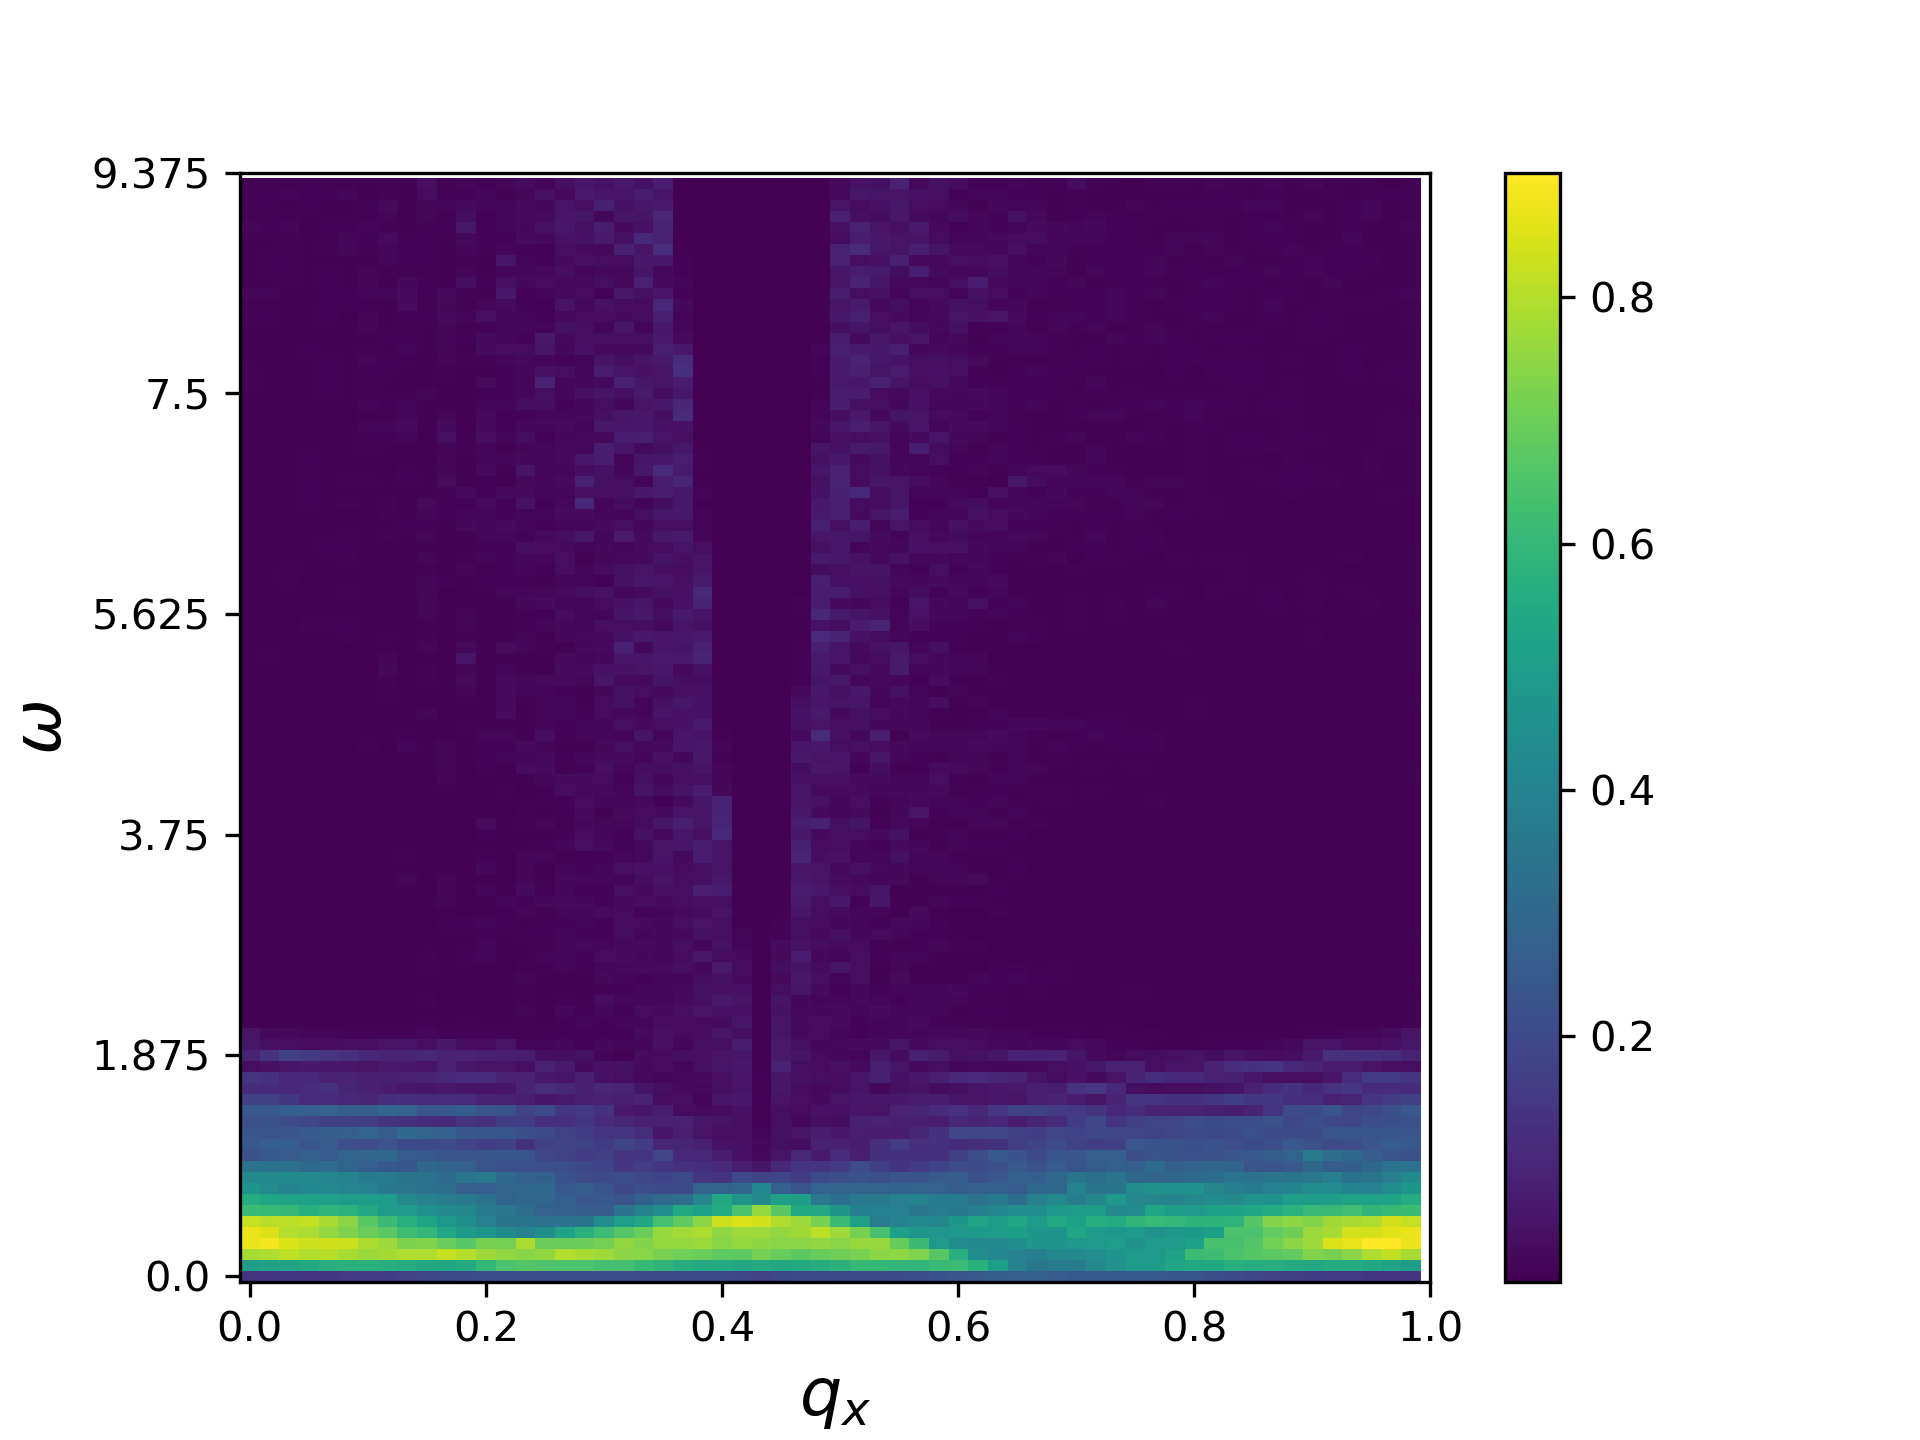
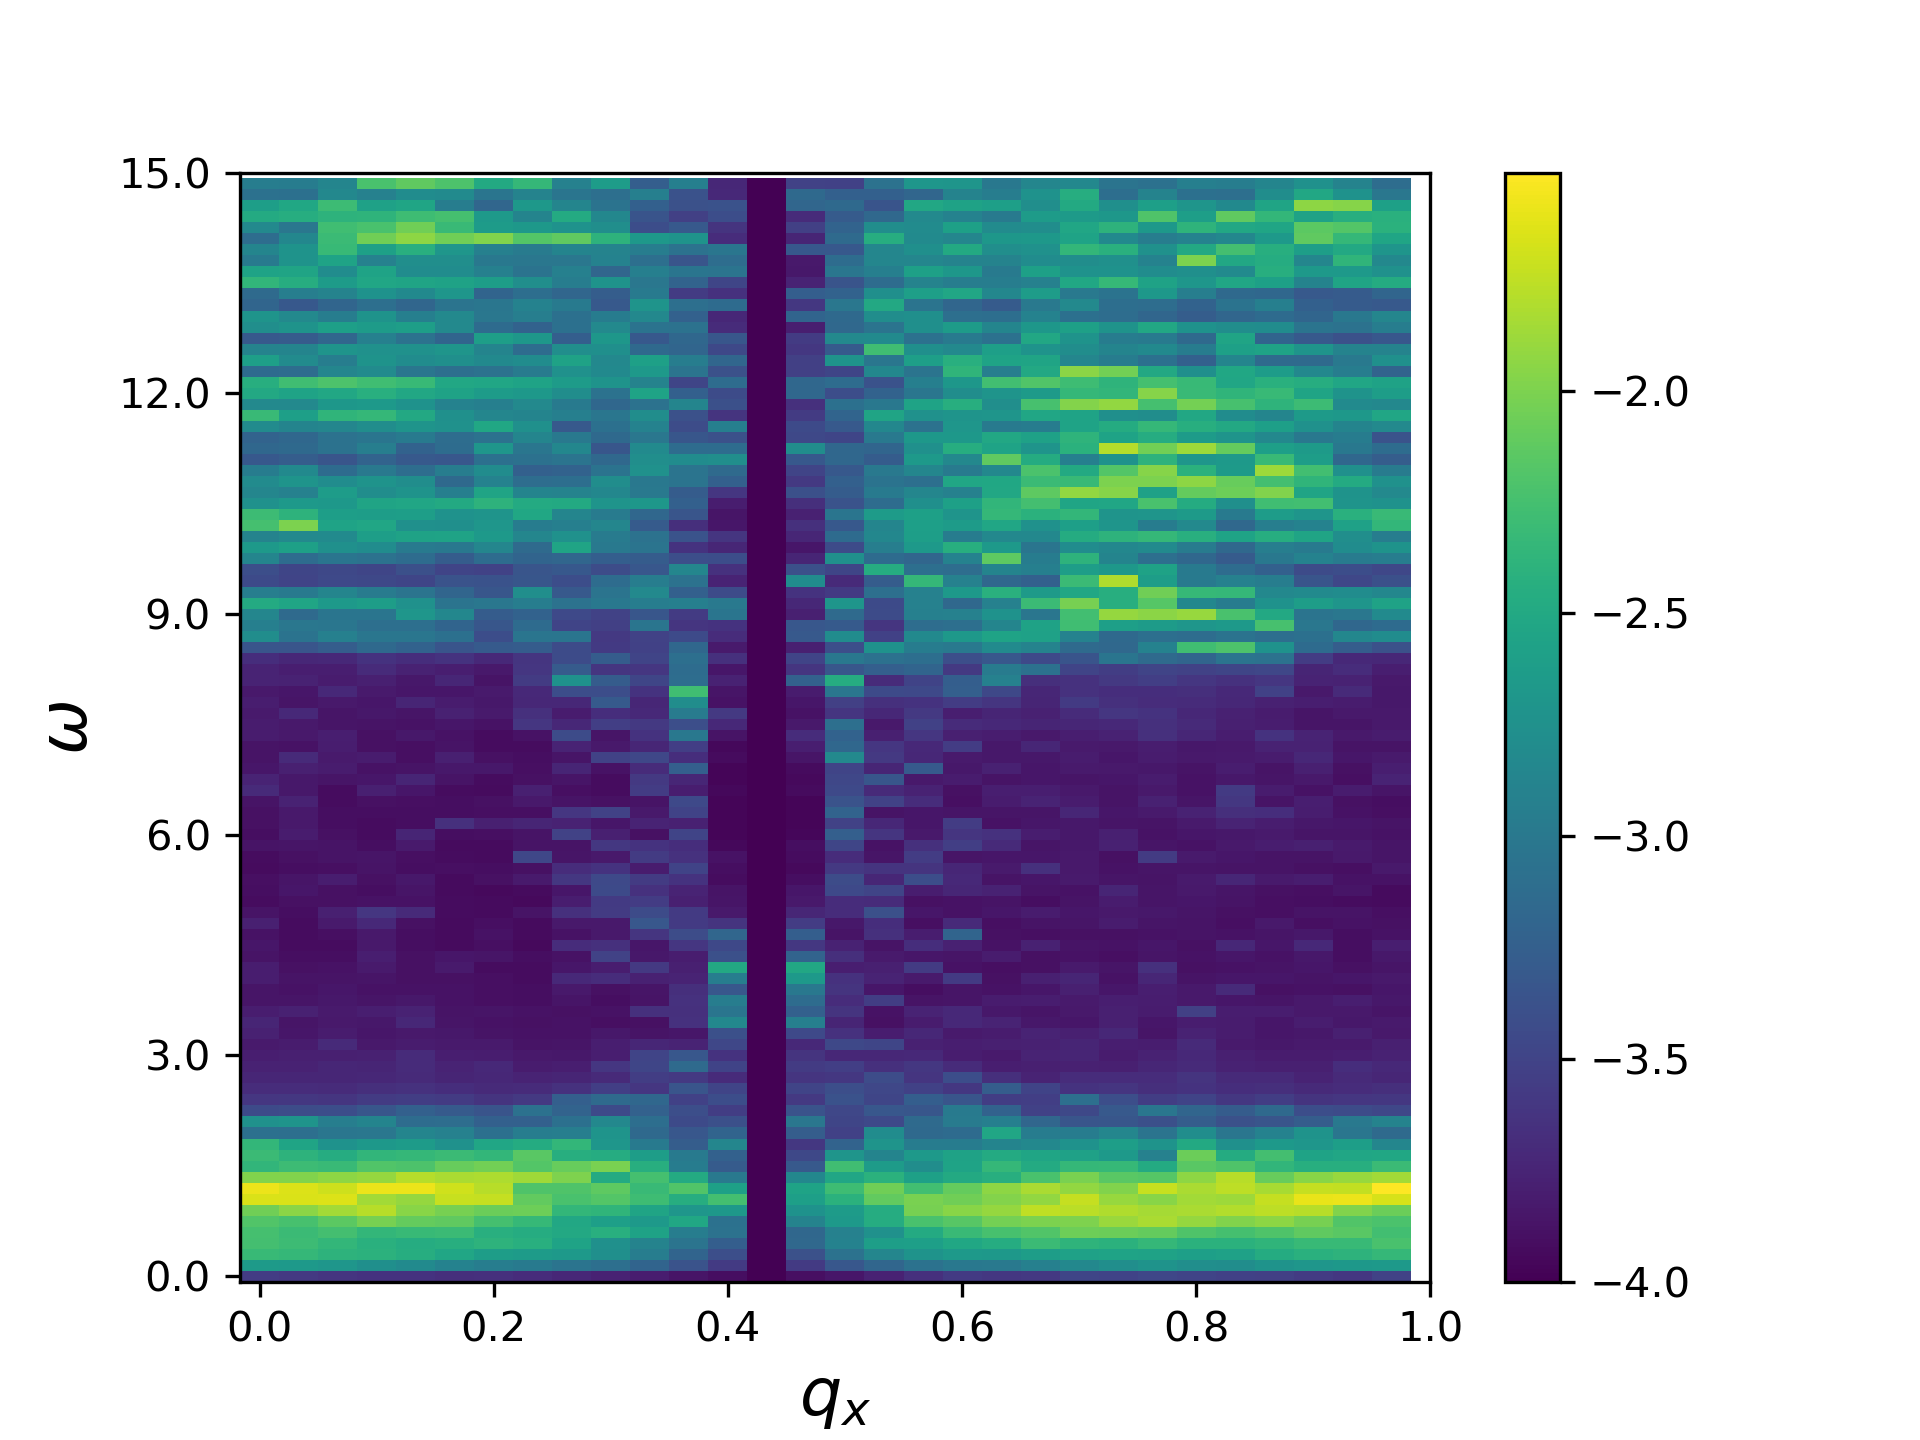
full optimization of the form factors using tensordot to precompute overlap matrix

diff --git a/bubble_valleyband_momentum_cut_form_fact.py b/bubble_valleyband_momentum_cut_form_fact.py
@@ -114,10 +114,10 @@ def eigsystem(kx, ky, xi, nbands, n1, n2):
     qx_dif = kx+GM1[0]*n1+GM2[0]*n2-xi*Mpoint[0]
     qy_dif = ky+GM1[1]*n1+GM2[1]*n2-xi*Mpoint[1]
     vals = np.sqrt(qx_dif**2+qy_dif**2)
-    ind_to_sum = np.where(vals <= 4*GM) #Finding the indices where the difference of  q lies inside threshold
-    n1_val = n1[ind_to_sum]
-    n2_val = n2[ind_to_sum]
-    N = np.shape(ind_to_sum)[1]
+    ind_to_sum = np.where(vals <= 4*GM) #Finding the i,j indices where the difference of  q lies inside threshold, this is a 2 x Nindices array
+    n1_val = n1[ind_to_sum] # evaluating the indices above, since n1 is a 2d array the result of n1_val is a 1d array of size Nindices
+    n2_val = n2[ind_to_sum] #
+    N = np.shape(ind_to_sum)[1] ##number of indices for which the condition above is satisfied
 
     qx = kx+GM1[0]*n1_val+GM2[0]*n2_val
     qy = ky+GM1[1]*n1_val+GM2[1]*n2_val
@@ -156,10 +156,19 @@ def eigsystem(kx, ky, xi, nbands, n1, n2):
     Hxi=np.bmat([[H1, (U.conj()).T], [U, H2]]) #Full matrix
     #a= np.linalg.eigvalsh(Hxi) - en_shift
     (Eigvals,Eigvect)= np.linalg.eigh(Hxi)  #returns sorted eigenvalues
-    psi=np.zeros([np.shape(n1)[0],np.shape(n1)[1],nbands ,4], dtype=np.cdouble) #4 corresponds to layer and sublattice indices and shape n1 corresponds to the Q processes taken 
-    psi[ind_to_sum]=np.reshape(np.array(Eigvect[:,2*N-int(nbands/2):2*N+int(nbands/2)]) , [N, nbands,4 ])
+    #######HANDLING WITH RESHAPE
+    # psi=np.zeros([np.shape(n1)[0],np.shape(n1)[1],nbands ,4], dtype=np.cdouble) #4 corresponds to layer and sublattice indices and shape n1 corresponds to the Q processes taken 
+    # psi[ind_to_sum]=np.reshape(np.array(Eigvect[:,2*N-int(nbands/2):2*N+int(nbands/2)]) , [N, nbands,4 ])
+    #MANUAL ARRAY CASTING
     
-    return Eigvals[2*N-int(nbands/2):2*N+int(nbands/2)]-en0, psi
+    psi_p=np.zeros([np.shape(n1)[0],np.shape(n1)[1],4], dtype=np.cdouble)
+    psi=np.zeros([nbands,np.shape(n1)[0]*np.shape(n1)[1]*4], dtype=np.cdouble)
+
+    for nband in range(nbands):
+        psi_p[ind_to_sum] = np.reshape(np.array(Eigvect[:,2*N-int(nbands/2)+nband]) , [N, 4 ])
+        psi[nband,:]=psi_p.flatten()
+
+    return Eigvals[2*N-int(nbands/2):2*N+int(nbands/2)]-en0,psi
     #  return Eigvals[2*N-int(nbands/2):2*N+int(nbands/2)]-en0, Eigvect[:,2*N-int(nbands/2):2*N+int(nbands/2)]
 
 
@@ -183,6 +192,8 @@ n_2=np.arange(0,Nsamp,1)
 k1=np.array([1,0])
 k2=np.array([1/2,np.sqrt(3)/2])
 n_1p,n_2p=np.meshgrid(n_1,n_2)
+n_1p_flat=n_1p.flatten()
+n_2p_flat=n_2p.flatten()
 G1=k1*Nsamp
 G2=k2*Nsamp
 
@@ -192,6 +203,8 @@ Ene_valley_plus_a=np.empty((0))
 Ene_valley_min_a=np.empty((0))
 psi_plus_a=[]
 psi_min_a=[]
+
+print("starting dispersion ..........")
 for l in range(Nsamp*Nsamp):
     i=int(l%Nsamp)
     j=int((l-i)/Nsamp)
@@ -199,44 +212,62 @@ for l in range(Nsamp*Nsamp):
     
     E1,wave1=eigsystem(XsLatt[i,j],YsLatt[i,j], 1, nbands, n1, n2)
     E2,wave2=eigsystem(XsLatt[i,j],YsLatt[i,j], -1, nbands, n1, n2)
-    #print(E)
+
     Ene_valley_plus_a=np.append(Ene_valley_plus_a,E1)
     Ene_valley_min_a=np.append(Ene_valley_min_a,E2)
+
     psi_plus_a.append(wave1)
     psi_min_a.append(wave2)
 
-psi_plus_r=np.reshape(np.array(psi_plus_a),[Nsamp,Nsamp,np.shape(n1)[0],np.shape(n1)[1],nbands,4])
+##relevant wavefunctions and energies for the + valley
 psi_plus=np.array(psi_plus_a)
+psi_plus_r=np.reshape(np.array(psi_plus_a),[Nsamp,Nsamp,nbands,np.shape(n1)[0]*np.shape(n1)[1]*4])
+psi_plus_conj=np.conj(np.array(psi_plus_a))
 Ene_valley_plus= np.reshape(Ene_valley_plus_a,[Nsamp,Nsamp,nbands])
-psi_min_r=np.reshape(np.array(psi_min_a),[Nsamp,Nsamp,np.shape(n1)[0],np.shape(n1)[1],nbands,4])
+
+#relevant wavefunctions and energies for the - valley
 psi_min=np.array(psi_min_a)
+psi_min_r=np.reshape(np.array(psi_min_a),[Nsamp,Nsamp,nbands,np.shape(n1)[0]*np.shape(n1)[1]*4])
+psi_min_conj=np.conj(np.array(psi_min_a))
 Ene_valley_min= np.reshape(Ene_valley_min_a,[Nsamp,Nsamp,nbands])
+
+ ## for testing different things
 Z= np.reshape(Ene_valley_plus_a,[Nsamp,Nsamp,nbands])
 
 e=time.time()
-print("time for dispersion", e-s,np.shape(psi_plus))
+print("finished dispersion ..........")
+print("time elapsed for dispersion ..........", e-s)
+print("shape of the wavefunctions...", np.shape(psi_plus))
 # plt.scatter(XsLatt,YsLatt, c=Z[:,:,1])
 # plt.show()
 
-
+s=time.time()
+print("calculating tensor that stores the overlaps........")
+Lambda_Tens_plus=np.tensordot(psi_plus_conj,psi_plus_r, axes=(2,3))
+Lambda_Tens_min=np.tensordot(psi_min_conj,psi_min_r, axes=(2,3))
+print( "tensorshape",np.shape(Lambda_Tens_plus) )
+e=time.time()
+print("time elapsed for tensor ..........", e-s)
 
 band_max=np.max(Z)
 band_min=np.min(Z)
 band_max_FB=np.max(Z[:,:,1:3])
 band_min_FB=np.min(Z[:,:,1:3])
 
-print(np.shape(Ene_valley_plus[:,:,2]))
+###infinitesimal to be added to the bubble calculation
 eta=np.mean( np.abs( np.diff( Ene_valley_plus[:,:,2].flatten() )  ) )/2
 
-print(band_max, band_min)
-print(band_max_FB, band_min_FB)
-print(eta)
+print("minimum energy and maximum energy between all the bands considered........",band_min, band_max)
+print("minimum energy and maximum energy for flat bands........",band_min_FB, band_max_FB)
+
+
+##for testing shifts
 n_1pp=(n_1p+int(Nsamp/2))%Nsamp
 n_2pp=(n_2p+int(Nsamp/2))%Nsamp
 
-
 Z1=Z[:,:,1]
 Z2=Z[n_1pp,n_2pp,1]
+#####
 # print(band_max, band_min)
 # plt.scatter(XsLatt,YsLatt, c=Z2)
 # plt.show()
@@ -253,6 +284,8 @@ Z2=Z[n_1pp,n_2pp,1]
 ####################################################################################
 ####################################################################################
 
+
+#######calculating the boundaries and high symmetry points of the FBZ using a voronoi decomposition
 from scipy.spatial import Voronoi, voronoi_plot_2d
 def FBZ_points(b_1,b_2):
     #creating reciprocal lattice
@@ -396,7 +429,7 @@ VV=np.array(Vertices_list_MBZ+[Vertices_list_MBZ[0]])
 KX_in=(GM/Nsamp)*XsLatt_hex
 KY_in=(GM/Nsamp)*YsLatt_hex
 
-
+### saving fermi surfaces of the bands that where considered
 for i in range(nbands):
     plt.plot(VV[:,0],VV[:,1])
     plt.scatter(KX_in,KY_in, s=30, c=Ene_valley_plus[:,:,i])
@@ -459,11 +492,9 @@ def findpath(Kps,KX,KY):
     
     
     l=np.argmin(  (Kps[0][0]-KX)**2 + (Kps[0][1]-KY)**2 )
-    i=int(l%Nsamp)
-    j=int((l-i)/Nsamp)
-    temp_j=j
-    j=i
-    i=temp_j
+    j=int(l%Nsamp)
+    i=int((l-j)/Nsamp)
+
     
     path=np.append(path,int(l)) 
     path_ij=np.append(path,np.array([i,j]))
@@ -499,14 +530,9 @@ def findpath(Kps,KX,KY):
             ind_min=np.argmin(np.array(dists))
             
             l=np.argmin(  (KXnn[ind_min]-KX)**2 + (KYnn[ind_min]-KY)**2 )
-            i=int(l%Nsamp)
-            j=int((l-i)/Nsamp)
+            j=int(l%Nsamp)
+            i=int((l-j)/Nsamp)
             
-        
-            temp_j=j
-            j=i
-            i=temp_j
-        
 
             path=np.append(path,int(l))
             path_ij=np.append(path,np.array([i,j]))
@@ -528,8 +554,11 @@ Npath=np.size(path)
 plt.scatter(XsLatt,YsLatt, s=30, c='r' )
 plt.scatter(kpath[:,0],kpath[:,1], s=30, c='g' )
 plt.gca().set_aspect('equal')
+# plt.show()
 plt.savefig("path.png")
 plt.close()
+
+print("calculated path accross the FBZ.......")
 
 
 ####################################################################################
@@ -566,61 +595,79 @@ def integrand(nx,ny,ekn,ekm,w,mu,T):
 Nomegs=100
 # maxomeg=(band_max-band_min)*1.5
 # minomeg=band_min*(np.sign(band_min)*(-2))*0+0.00005
-maxomeg=(band_max_FB-band_min_FB)*2.5
+maxomeg=(band_max_FB-band_min_FB)*4
 minomeg=0.00005
 omegas=np.linspace(minomeg,maxomeg,Nomegs)
 integ=[]
-s=time.time()
+sb=time.time()
+
+print("starting bubble.......")
+
 for omegas_m_i in omegas:
     sd=[]
     sp=time.time()
     for l in path:  #for calculating only along path in FBZ
         bub=0
-        i=int(l%Nsamp)
-        j=int((l-i)/Nsamp)
+        j=int(l%Nsamp)
+        i=int((l-j)/Nsamp)
         n_1pp=(n_1p+n_1p[i,j])%Nsamp
         n_2pp=(n_2p+n_2p[i,j])%Nsamp
+        n_1pp_flat=(n_1p_flat+n_1p_flat[int(l)])%Nsamp
+        n_2pp_flat=(n_2p_flat+n_2p_flat[int(l)])%Nsamp
         integrand_var=0
         #save one reshape below by reshaping n's
-        
-        #####all bands for the + valley
+    
+        # s=time.time()
+        Lambda_Tens_plus_kq_k=np.array([Lambda_Tens_plus[ss,:,n_1pp_flat[ss],n_2pp_flat[ss],:] for ss in range(Nsamp**2)])
+        Lambda_Tens_min_kq_k=np.array([Lambda_Tens_min[ss,:,n_1pp_flat[ss],n_2pp_flat[ss],:] for ss in range(Nsamp**2)])
+        # print(np.shape(Lambda_Tens_plus_kq_k))
+        # e=time.time()
+        # print("time to op: evaluation of kq shift",e-s)
+
+        s=time.time()
+        #####all bands for the + and - valley
         for nband in range(nbands):
             for mband in range(nbands):
-                Lambd_nm_plus=np.reshape( np.diag(np.tensordot(psi_plus[:,:,:,nband,:],np.reshape(psi_plus_r[n_1pp,n_2pp,:,:,mband,:],[Nsamp**2,np.shape(n1)[0],np.shape(n1)[1],4]), axes=([1,2,3],[1,2,3]))) ,[Nsamp,Nsamp])
-                #Lambd_nm_plus=int(nband==mband)
+                
+                #Lambda_Tens_plus_kq_k_nm=int(nband==mband)
                 ek_n=Ene_valley_plus[:,:,nband]
                 ek_m=Ene_valley_plus[:,:,mband]
-                integrand_var=integrand_var+integrand(n_1pp,n_2pp,ek_n,ek_m,omegas_m_i,mu,T)*Lambd_nm_plus
-                #print(np.shape(integrand_var))
+                Lambda_Tens_plus_kq_k_nm=np.reshape(Lambda_Tens_plus_kq_k[:,nband,mband], [Nsamp,Nsamp])
+                integrand_var=integrand_var+integrand(n_1pp,n_2pp,ek_n,ek_m,omegas_m_i,mu,T)*np.abs(Lambda_Tens_plus_kq_k_nm)**2
+                
 
-        #####all bands for the - valley
-        for nband in range(nbands):
-            for mband in range(nbands):
-                Lambd_nm_min=np.reshape( np.diag(np.tensordot(psi_min[:,:,:,nband,:],np.reshape(psi_min_r[n_1pp,n_2pp,:,:,mband,:],[Nsamp**2,np.shape(n1)[0],np.shape(n1)[1],4]), axes=([1,2,3],[1,2,3]))) ,[Nsamp,Nsamp])
-                #Lambd_nm_min=int(nband==mband)
+                
+                #Lambda_Tens_min_kq_k_nm=int(nband==mband)
                 ek_n=Ene_valley_min[:,:,nband]
                 ek_m=Ene_valley_min[:,:,mband]
-                integrand_var=integrand_var+integrand(n_1pp,n_2pp,ek_n,ek_m,omegas_m_i,mu,T)*Lambd_nm_min
-                #print(np.shape(integrand_var))
+                Lambda_Tens_min_kq_k_nm=np.reshape(Lambda_Tens_min_kq_k[:,nband,mband], [Nsamp,Nsamp])
+                integrand_var=integrand_var+integrand(n_1pp,n_2pp,ek_n,ek_m,omegas_m_i,mu,T)*(np.abs(Lambda_Tens_min_kq_k_nm)**2)
+                
 
+        e=time.time()
+       
         bub=bub+np.sum(integrand_var)*dS_in
 
         sd.append( bub )
 
     integ.append(sd)
-    ep=time.time()
-    #print("time per frequency", ep-sp)
+    
 integ_arr_no_reshape=np.array(integ)
-Vq_pre=(1/3.03)*2*np.pi/np.sqrt(kpath[:,0]**2+kpath[:,1]**2+1e-50)
+
+e=time.time()
+print("finished bubble.......")
+print("Time for bubble",e-sb)
+
+
+
+Vq_pre=(1/0.03)*2*np.pi/np.sqrt(kpath[:,0]**2+kpath[:,1]**2+1e-50)
 Vq=np.array([Vq_pre for l in range(Nomegs)])
-print("shape coulomb interacction", np.shape(Vq), Nomegs,Npath)
+print("shape coulomb interaction", np.shape(Vq), Nomegs,Npath)
 #Dielectric function
 momentumcut=np.log10( np.abs( np.imag(-1/(1 + Vq*np.reshape(np.array(integ),[Nomegs,Npath]) )   ) ) +1e-4) #for calculating only along path in FBZ
 #momentumcut=np.reshape(np.array(integ),[Nomegs,Npath]) #for calculating only along path in FBZ
 
 
-e=time.time()
-print("Time for bubble",e-s)
 
 
 ####### GETTING A MOMENTUM CUT OF THE DATA FROM GAMMA TO K AS DEFINED IN THE PREVIOUS CODE SECTION
@@ -679,8 +726,8 @@ plt.ylabel(r"$\omega$",size=16)
 plt.colorbar()
 plt.savefig("Imchi2.png", dpi=300)
 
-"""
 
+"""
 ####### PLOTS OF THE MOMENTUM CUT OF THE POLARIZATION BUBBLE REAL
 plt.imshow(np.real(momentumcut), origin='lower', aspect='auto')
 
